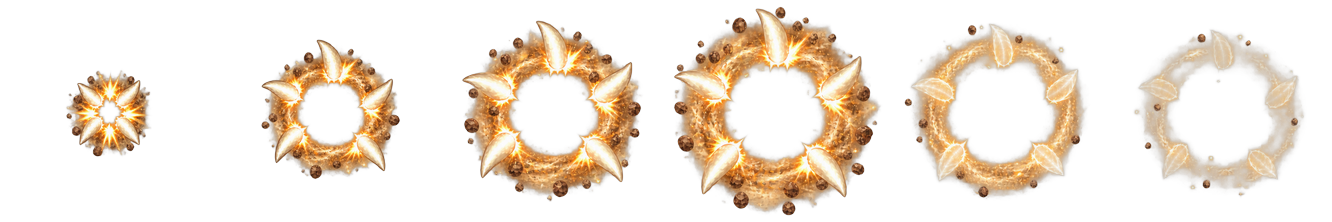
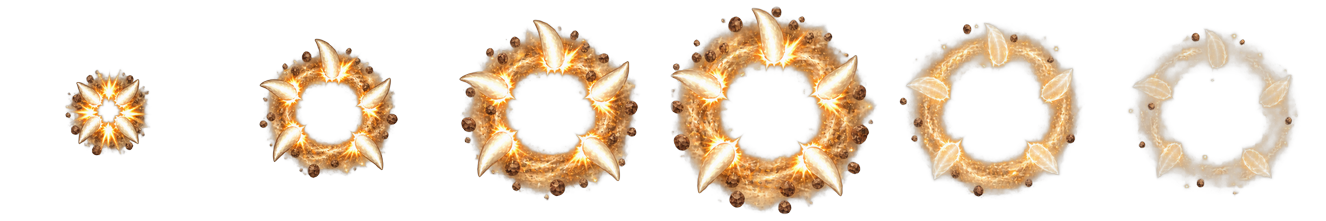
`detoure_effet` : decomposer un effet peint sur un damier, au lieu de le detourer
Un generateur sur deux rend la transparence en la PEIGNANT : l image arrive
opaque, damier gris et blanc en dur. `detoure` sait l enlever — il propage
depuis les bords — mais il rend un alpha BINAIRE. C est ce qu il faut pour
un crabe, qui a un contour ; c est faux pour une flamme, qui n en a pas.
Coupee net, elle se lit comme un autocollant colle sur le monde.

On decompose donc. Le generateur a melange l effet et son fond : chaque
pixel vaut a*C + (1-a)*F, et le fond se lit sur les quatre bords. On en tire
l ALPHA par l ecart au fond — mesure de deux facons dont on garde la plus
grande, ce qui ASSOMBRIT et ce qui COLORE, parce qu un panache gris n est
pas colore et qu une flamme jaune n est pas sombre — puis la COULEUR en
retirant ce que le fond y a mis. Sans cette derniere etape tout le degrade
reste delave vers le blanc.

LE PLANCHER N EST PAS UN DETAIL. Un damier a deux tons : 254 et 247 sur la
premiere planche, sept niveaux d ecart. Avec une seule valeur de fond, la
moitie des carreaux ressortait a sept pour cent d opacite — un voile
laiteux sur toute l image, invisible sur fond blanc et tres visible pose
sur l herbe. Le plancher est la marge morte sous laquelle on ne croit pas
l ecart : au-dessus du bruit du damier, largement sous le halo le plus tenu
d un effet.

`decoupe_fx_zone.py` l appelle tout seul quand la source n a pas un seul
pixel transparent.

ET LA GRILLE SE DONNE, ELLE NE SE DEVINE PAS. J ai essaye de la lire —
[…]

diff --git a/decoupe_fx_zone.py b/decoupe_fx_zone.py
@@ -41,56 +41,58 @@ import planches as P
 
 SEUIL = 40          # ce qu'on considere comme de la matiere
 MARGE = 6           # ce qu'on garde autour de la boite commune
+BORD = 5            # le fondu applique contre un trait de coupe interieur
 
 
-def bandes_vides(masque, axe):
-    """Les tranches entierement transparentes, dans un axe. Ce sont elles qui
-    disent ou le generateur a separe ses cases — plutot que de supposer une
-    forme de grille qu'il n'a pas forcement respectee."""
-    occ = masque.sum(axis=1 - axe)
-    vides, deb = [], None
-    for i, v in enumerate(occ):
-        if v == 0 and deb is None:
-            deb = i
-        if v != 0 and deb is not None:
-            vides.append((deb, i - 1)); deb = None
-    if deb is not None:
-        vides.append((deb, len(occ) - 1))
-    return vides
-
-
-def coupures(masque, axe, mini=8):
-    """Les milieux des bandes vides INTERIEURES : les traits de coupe."""
-    n = masque.shape[1 - axe] if axe == 0 else masque.shape[0]
-    n = masque.shape[0] if axe == 0 else masque.shape[1]
-    out = []
-    for a, b in bandes_vides(masque, axe):
-        if a == 0 or b == n - 1:
-            continue                      # la marge du bord, pas une coupure
-        if b - a + 1 >= mini:
-            out.append((a + b) // 2)
-    return out
+def note(masque, cx, cy):
+    """Combien de dessin les traits de coupe traversent. C'est le seul juge
+    d'une grille : la bonne est celle dont les traits tombent dans le vide."""
+    return (sum(int(masque[:, x].sum()) for x in cx)
+            + sum(int(masque[y, :].sum()) for y in cy))
 
 
 def main():
-    if len(sys.argv) < 3:
-        print('usage: decoupe_fx_zone.py <source.png> <nom>'); return 1
+    if len(sys.argv) < 5:
+        print('usage: decoupe_fx_zone.py <source.png> <nom> <colonnes> <lignes>')
+        print('  ex : decoupe_fx_zone.py bloc/meute.png meute 2 3')
+        return 1
     source, nom = sys.argv[1], sys.argv[2]
+    cols, lignes = int(sys.argv[3]), int(sys.argv[4])
+    if cols * lignes != 6:
+        print('il faut six cases, pas %d.' % (cols * lignes)); return 1
     sortie = 'img/nexus/effets/fam_%s.webp' % nom
 
     im = Image.open(source).convert('RGBA')
-    a = np.array(im)
-    m = a[:, :, 3] > SEUIL
     print('source : %s %dx%d' % (source, im.width, im.height))
 
-    cy = coupures(m, 0)        # traits horizontaux -> lignes
-    cx = coupures(m, 1)        # traits verticaux   -> colonnes
-    cols, lignes = len(cx) + 1, len(cy) + 1
-    print('grille lue : %d colonne(s) x %d ligne(s)  (coupes x=%s, y=%s)'
-          % (cols, lignes, cx, cy))
-    if cols * lignes != 6:
-        print('ATTENTION : %d cases au lieu de six — on n ecrit rien.' % (cols * lignes))
-        return 1
+    # ---- LE DAMIER DESSINE ----
+    # Un generateur sur deux rend la transparence en la PEIGNANT : l'image
+    # arrive opaque, avec le damier gris et blanc en dur. On le voit tout de
+    # suite — pas un seul pixel transparent — et on decompose plutot que de
+    # detourer : un effet n'a pas de contour, et un alpha binaire le
+    # transformerait en autocollant. Voir `detoure_effet`.
+    if np.array(im)[:, :, 3].min() == 255:
+        print('       fond peint (aucune transparence) -> detoure_effet')
+        im = P.detoure_effet(im)
+
+    a = np.array(im)
+    m = a[:, :, 3] > SEUIL
+
+    # ---- LA GRILLE SE DONNE, ELLE NE SE DEVINE PAS ----
+    # J'ai essaye de la lire — bandes vides, puis recherche de creux. Les deux
+    # se trompent : le halo d'un effet deborde de sa case et remplit les
+    # colonnes qui devraient etre vides, et une vallee trouvee au mauvais
+    # endroit donne une grille fausse SANS RIEN DIRE. Or la forme se voit d'un
+    # coup d'oeil sur la planche. On la passe donc, et le script REND COMPTE
+    # de ce que ses coupes traversent : c'est ce chiffre qui dit si on s'est
+    # trompe, pas une devinette.
+    cx = [round(im.width * i / cols) for i in range(1, cols)]
+    cy = [round(im.height * i / lignes) for i in range(1, lignes)]
+    score = note(m, cx, cy)
+    print('grille %dx%d, coupes x=%s y=%s -> %d px de dessin traverses'
+          % (cols, lignes, cx, cy, score))
+    if score > 0:
+        print('       ATTENTION : les traits tombent dans le dessin.')
 
     # On coupe au PAS FIXE de la grille lue, jamais sur le contenu.
     cases = []
@@ -100,7 +102,35 @@ def main():
             x1 = im.width if c == cols - 1 else cx[c]
             y0 = 0 if l == 0 else cy[l - 1]
             y1 = im.height if l == lignes - 1 else cy[l]
-            cases.append(im.crop((x0, y0, x1, y1)))
+            case = im.crop((x0, y0, x1, y1))
+            # ---- LE LISERE DU VOISIN ----
+            # Le halo d'un effet deborde de sa case : coupee au pas de la
+            # grille, chaque case garde contre le trait une lamelle du voisin.
+            # Elle ne se voit pas sur la planche et se voit tres bien en jeu —
+            # une barre verticale claire au bord de l'effet, qui apparait et
+            # disparait d'une image a l'autre.
+            # On l'efface EN FONDU sur quelques pixels, et seulement du cote
+            # d'un trait interieur : un bord de planche n'a pas de voisin. Ce
+            # qu'on perd du halo propre a la case, a cet endroit-la, est de
+            # toute facon le plus tenu.
+            if BORD > 0:
+                al = np.array(case)[:, :, 3].astype(float)
+                if c > 0:
+                    for k in range(BORD):
+                        al[:, k] *= k / float(BORD)
+                if c < cols - 1:
+                    for k in range(BORD):
+                        al[:, case.width - 1 - k] *= k / float(BORD)
+                if l > 0:
+                    for k in range(BORD):
+                        al[k, :] *= k / float(BORD)
+                if l < lignes - 1:
+                    for k in range(BORD):
+                        al[case.height - 1 - k, :] *= k / float(BORD)
+                t = np.array(case)
+                t[:, :, 3] = np.clip(al, 0, 255).astype(np.uint8)
+                case = Image.fromarray(t, 'RGBA')
+            cases.append(case)
     print('lecture ligne par ligne : %d cases' % len(cases))
 
     # ---- LES CENTRES DE GRAVITE, ET RIEN D'AUTRE ----

diff --git a/planches.py b/planches.py
@@ -35,6 +35,14 @@ recommis les memes erreurs. Ce qui suit est ce qu'elles ont coute :
    « tous les gris clairs » : ca mange les pinces palees du crabe et les
    plaques du robot. On propage depuis les BORDS — le fond est connexe et
    touche le cadre, une pince enfermee dans son contour ne l'est pas.
+
+6. Un EFFET pose sur un damier ne se detoure pas comme un objet. `detoure`
+   rend un alpha binaire : bon pour un crabe, qui a un contour, faux pour une
+   flamme, qui n'en a pas. Le halo se retrouve coupe net, et l'effet se lit
+   comme un autocollant. Pour un effet il faut DECOMPOSER : le generateur a
+   melange l'effet et le damier, on retrouve l'alpha en mesurant de combien
+   chaque pixel s'ecarte du fond, et la couleur en retirant ce que le fond y
+   a mis. C'est `detoure_effet`.
 """
 from PIL import Image
 from collections import deque
@@ -450,6 +458,96 @@ def detoure_uni(source, tolerance=26, adoucit=1):
             if fond[y * w + x]:
                 px[x, y] = (0, 0, 0, 0)
     return im
+
+
+def detoure_effet(source, fond=None, seuil=44, plancher=10, adoucit=0):
+    """Un EFFET pose sur un fond clair ou sur un damier : on DECOMPOSE.
+
+    ---- pourquoi pas `detoure` ----
+
+    `detoure` propage depuis les bords et rend un alpha BINAIRE. C'est ce
+    qu'il faut pour un objet, qui a un contour. Une flamme n'en a pas : elle
+    s'eteint en degrade, et c'est ce degrade qui la fait tenir par-dessus le
+    decor. Coupee net, elle se lit comme un autocollant colle sur le monde.
+
+    ---- ce qu'on fait a la place ----
+
+    Le generateur a MELANGE l'effet et son fond : chaque pixel vaut
+    `a*C + (1-a)*F`, ou `F` est le fond. On connait `F` — c'est du blanc, ou
+    les deux tons d'un damier, tous neutres et tres clairs. On en tire les
+    deux inconnues :
+
+      • l'ALPHA, par l'ecart au fond. Un pixel identique au fond est vide ; un
+        pixel qui s'en ecarte de `seuil` ou plus est plein ; entre les deux,
+        le degrade est conserve. On mesure l'ecart de DEUX facons et l'on
+        garde la plus grande : ce qui ASSOMBRIT (la fumee, la braise noire) et
+        ce qui COLORE (la flamme). Une seule des deux perdrait la moitie de
+        l'effet — un panache gris sur fond blanc n'est pas colore, une flamme
+        jaune n'est pas sombre.
+
+      • la COULEUR, en retirant ce que le fond y a mis : `C = (P - (1-a)F)/a`.
+        Sans cette etape, tout le degrade reste delave vers le blanc, et
+        l'effet parait terne la ou il devrait etre le plus vif.
+
+    `fond` peut etre impose (un triplet) ; par defaut on le lit sur les quatre
+    bords, qui sont toujours du fond et jamais du dessin.
+
+    ---- et le PLANCHER, qui n'est pas un detail ----
+
+    Un damier a DEUX tons. Mesure sur la premiere planche : 254 et 247, soit
+    sept niveaux d'ecart. Avec un seul `fond` — la mediane, 250 — la moitie
+    des carreaux s'ecarte de trois et ressort a sept pour cent d'opacite : un
+    voile laiteux sur toute l'image, qui ne se voit pas sur fond blanc et se
+    voit tres bien pose sur l'herbe.
+
+    Le plancher est la marge morte sous laquelle on ne croit pas l'ecart.
+    Au-dessus du bruit du damier, largement sous le halo le plus tenu d'un
+    effet — qui descend, lui, de plusieurs dizaines.
+    """
+    im = source if isinstance(source, Image.Image) else Image.open(source)
+    im = im.convert('RGBA')
+    w, h = im.size
+    px = im.load()
+
+    if fond is None:
+        # La MEDIANE des bords, pas la moyenne : un coin ou l'effet deborde
+        # tirerait une moyenne, il ne deplace pas une mediane.
+        ech = []
+        for x in range(0, w, 3):
+            ech.append(px[x, 0][:3]); ech.append(px[x, h - 1][:3])
+        for y in range(0, h, 3):
+            ech.append(px[0, y][:3]); ech.append(px[w - 1, y][:3])
+        ech.sort(key=lambda p: p[0] + p[1] + p[2])
+        fond = ech[len(ech) // 2]
+    fr, fg, fb = float(fond[0]), float(fond[1]), float(fond[2])
+
+    out = Image.new('RGBA', (w, h))
+    op = out.load()
+    for y in range(h):
+        for x in range(w):
+            r, g, b, _ = px[x, y]
+            # Ce qui assombrit : de combien le pixel descend sous le fond.
+            sombre = max(fr - r, fg - g, fb - b)
+            # Ce qui colore : de combien ses canaux s'ecartent entre eux. Le
+            # fond est neutre, donc tout ecart vient de l'effet.
+            colore = max(r, g, b) - min(r, g, b)
+            a = (max(sombre, colore) - plancher) / float(max(1, seuil - plancher))
+            if a <= 0:
+                op[x, y] = (0, 0, 0, 0); continue
+            if a > 1.0:
+                a = 1.0
+            # On retire ce que le fond a mis. Sur un alpha faible la division
+            # explose : on la borne, sinon un halo a peine visible ressort en
+            # aplat sature.
+            k = max(a, 0.08)
+            cr = int(round(min(255.0, max(0.0, (r - (1 - a) * fr) / k))))
+            cg = int(round(min(255.0, max(0.0, (g - (1 - a) * fg) / k))))
+            cb = int(round(min(255.0, max(0.0, (b - (1 - a) * fb) / k))))
+            op[x, y] = (cr, cg, cb, int(round(a * 255)))
+
+    for _ in range(max(0, adoucit)):
+        out = nettoie_isoles(out)
+    return out
 
 
 def _proche(p, c, t):
